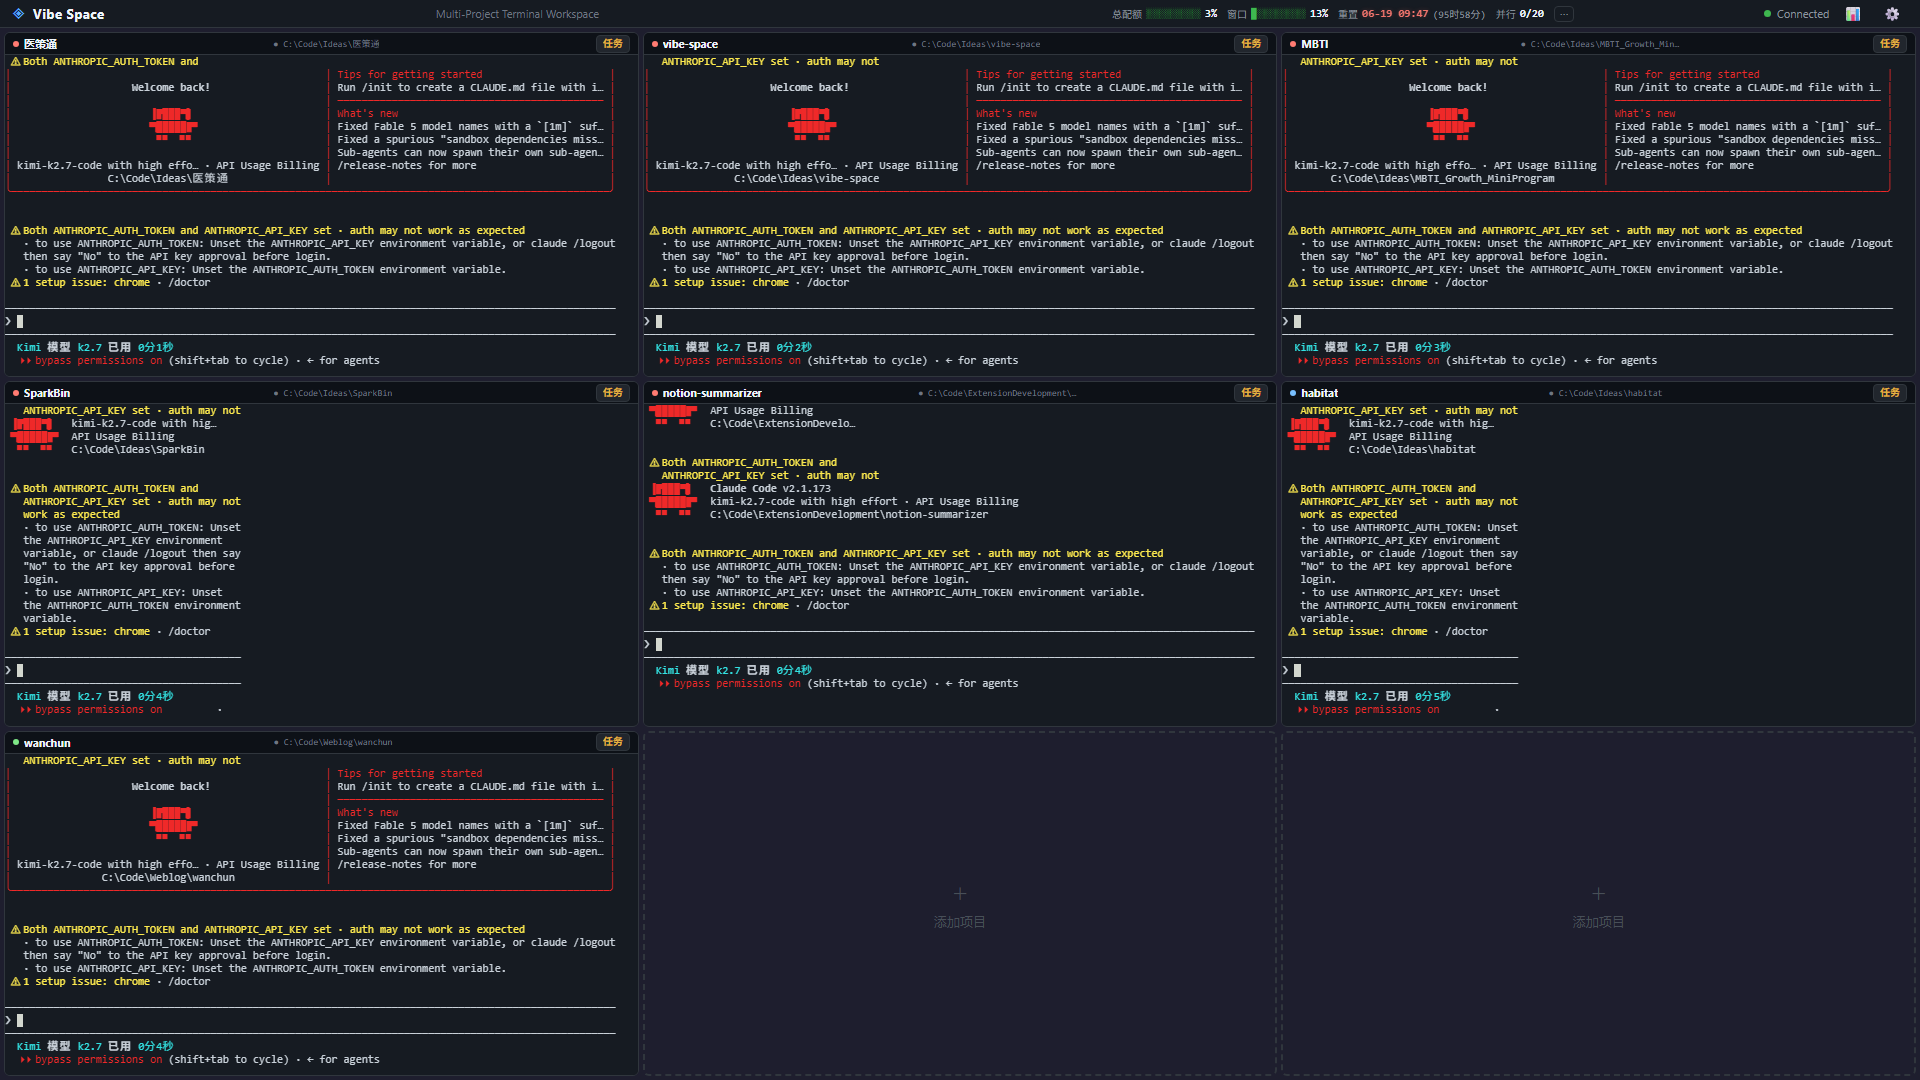
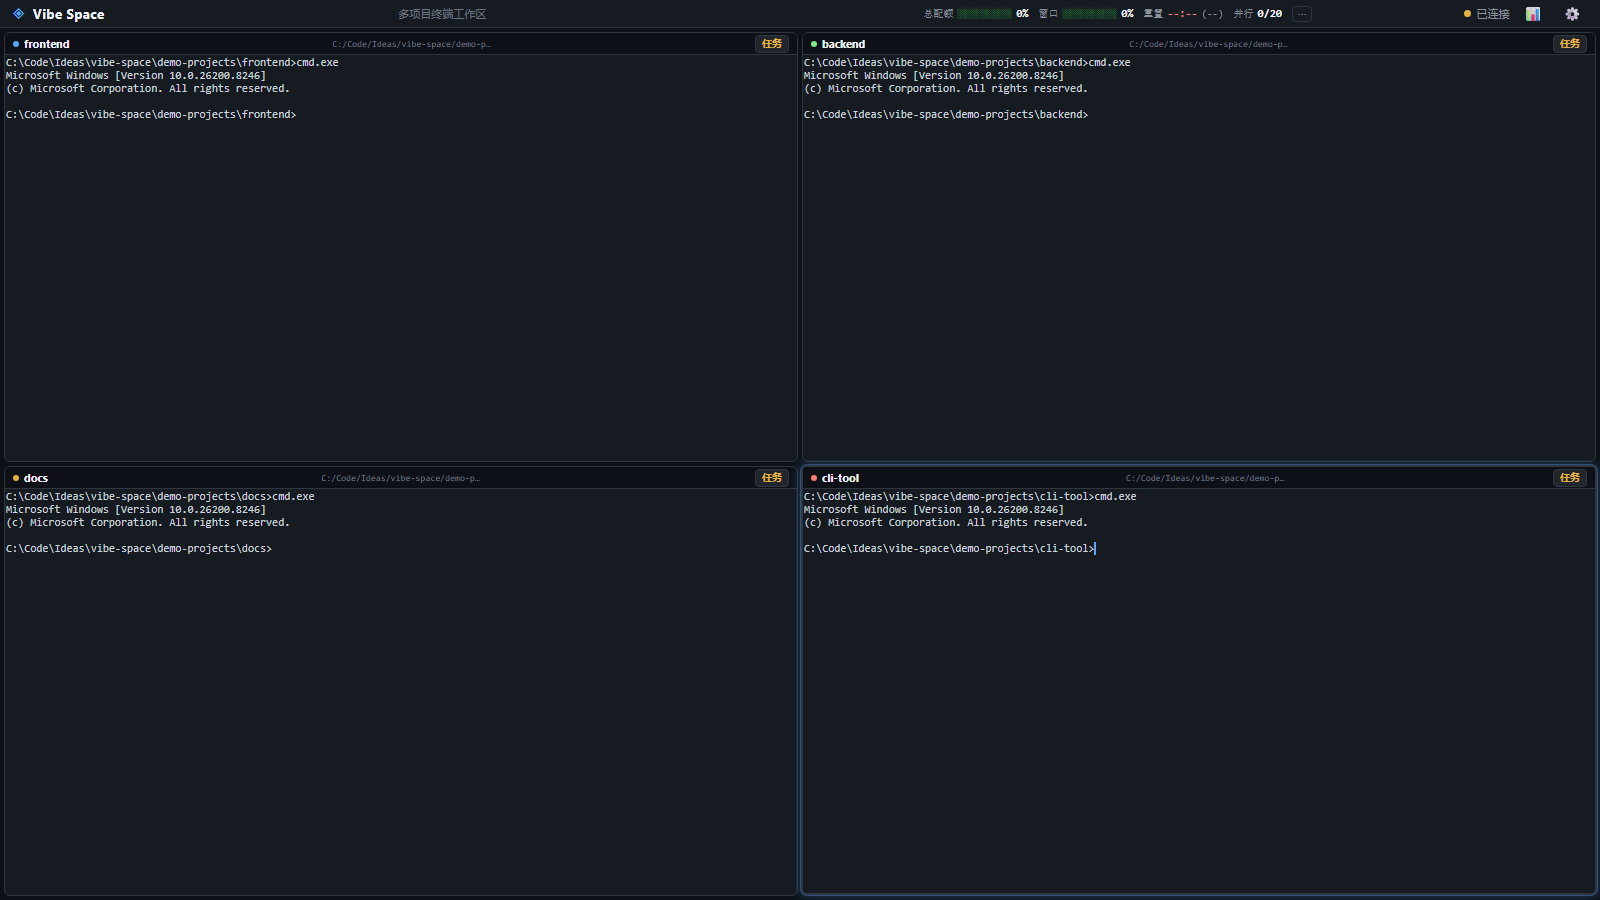
docs: polish README for open source, add package metadata, replace screenshot
- Add disclaimer about third-party trademarks
- Fill package.json author/repository/bugs/homepage
- Replace unprofessional workspace screenshot with clean demo
- Remove npm badge until package is published

diff --git a/README.md b/README.md
@@ -2,9 +2,13 @@
 
 > Multi-Agent Task Queue for Claude Code — manage multiple AI coding sessions in one workspace.
 
-Vibe Space turns Claude Code (and other AI CLI agents) into a **multi-project command center**. Instead of juggling terminal windows, you get a single dashboard where you can queue tasks, dispatch them to parallel AI sessions, and monitor every agent's status at a glance.
+[![License: MIT](https://img.shields.io/badge/License-MIT-yellow.svg)](./LICENSE)
+
+**Vibe Space** turns Claude Code (and other AI CLI agents) into a **multi-project command center**. Instead of juggling terminal windows, you get a single dashboard where you can queue tasks, dispatch them to parallel AI sessions, and monitor every agent's status at a glance.
 
 ![Vibe Space Screenshot](./vibe-space-final.png)
+
+> **Disclaimer:** Vibe Space is an independent, community-driven project. It is not affiliated with, endorsed by, or sponsored by Anthropic, Moonshot AI, or any other AI provider mentioned in this repository.
 
 ## Why Vibe Space?
 
@@ -159,3 +163,7 @@ Contributions are welcome! Please open an issue or pull request.
 ## License
 
 [MIT](./LICENSE)
+
+---
+
+**Made with ❤️ by the Vibe Space community.**